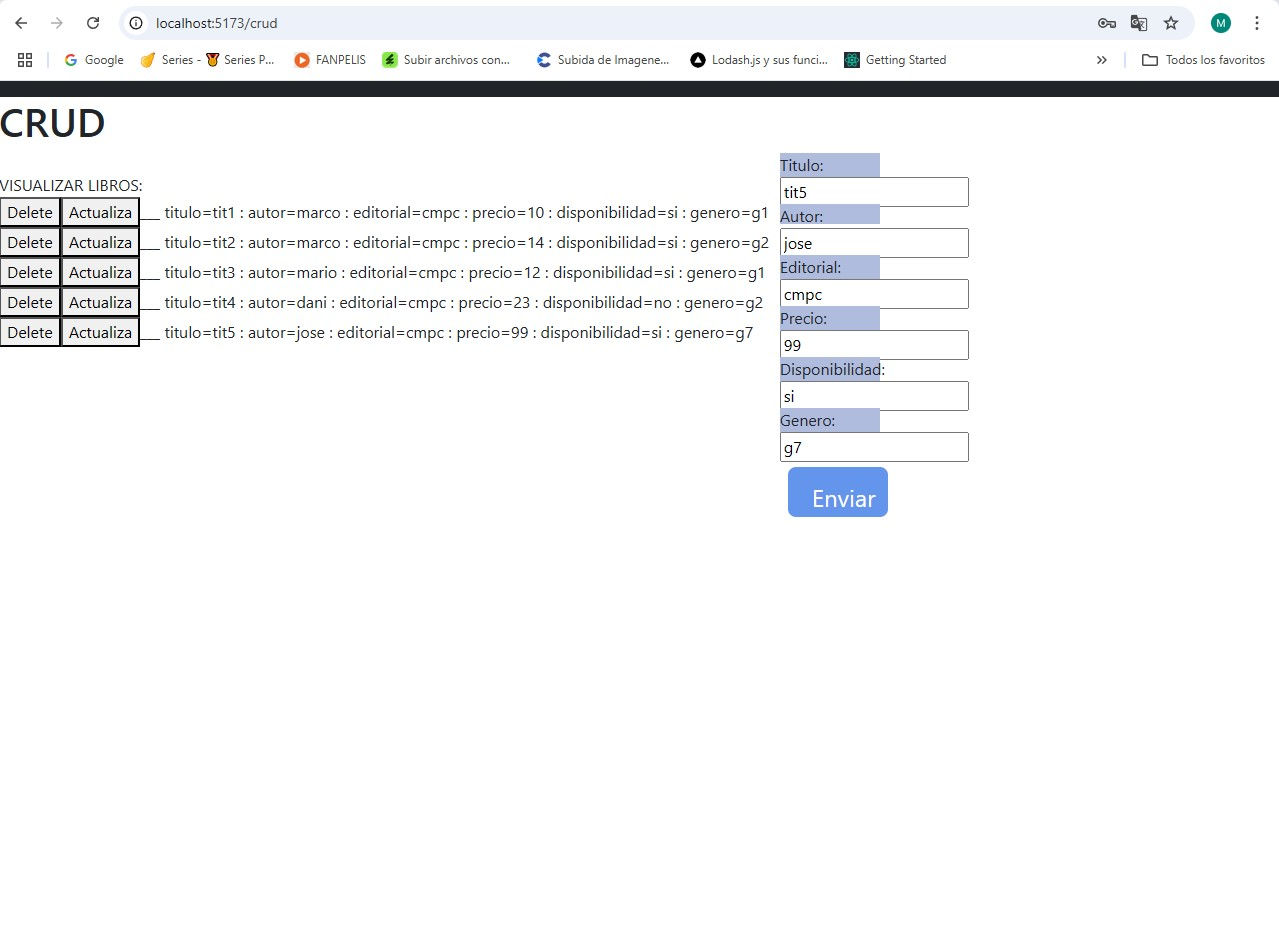
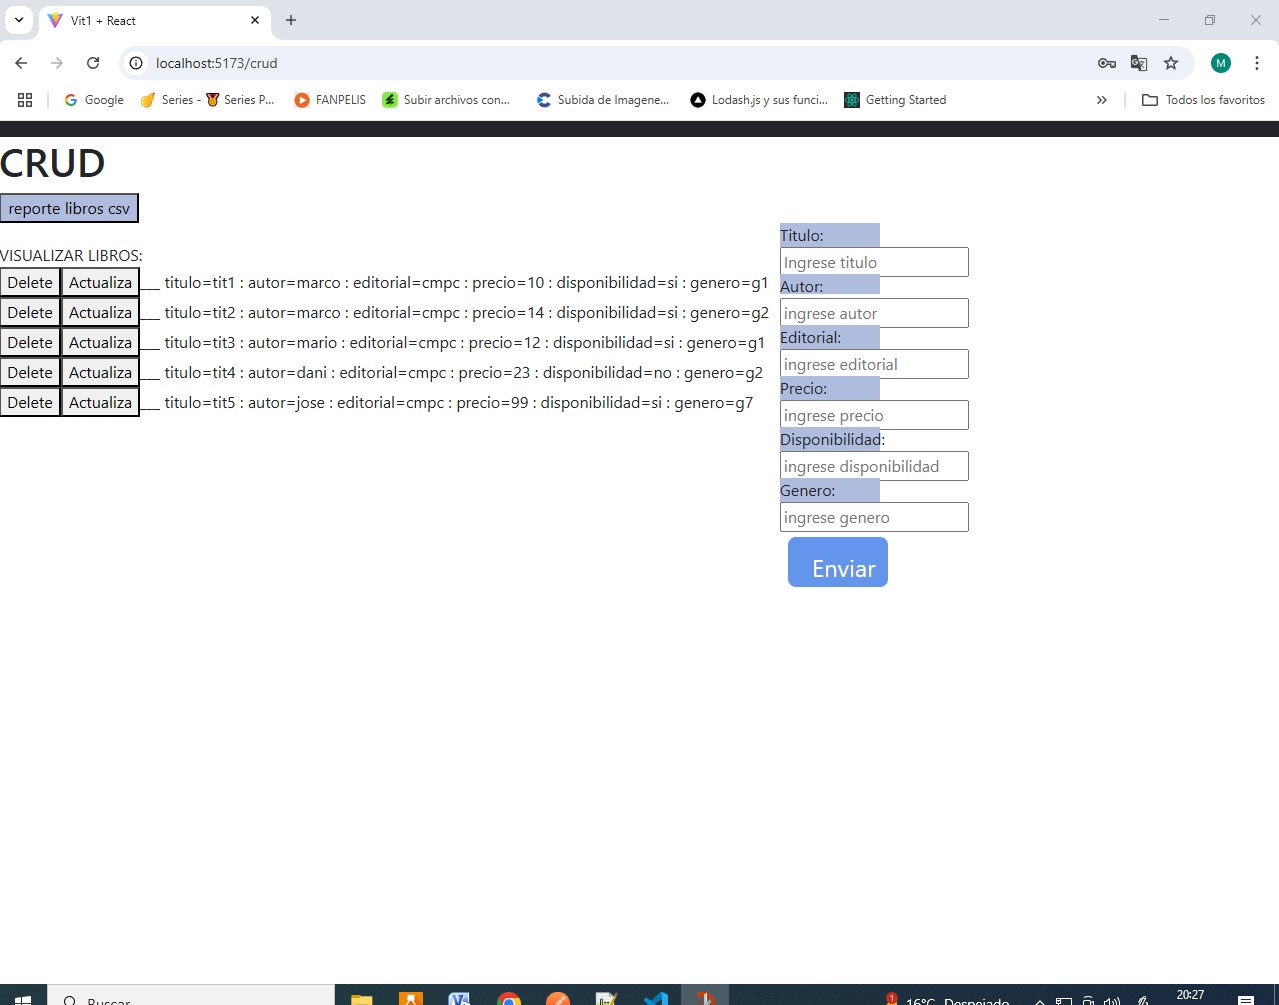
feat: se agrega reportes csc

Changed region(s): [[0.0, 0.0, 1.0, 0.5837], [0.2439, 0.9523, 1.0, 1.0], [0.0, 0.9523, 0.0915, 1.0]]

diff --git a/frontend/src/componentes/Contexto.jsx b/frontend/src/componentes/Contexto.jsx
@@ -19,6 +19,8 @@ export function Contexto(props) {
     const URL2= import.meta.env.VITE_URL || "http://localhost:3000/books"
     const URL3= import.meta.env.VITE_URL || "http://localhost:3000/books"
     const URL4= import.meta.env.VITE_URL || "http://localhost:3000/books"
+    const URL5= import.meta.env.VITE_URL || "http://localhost:3000/books/csv"
+    
     
     async function enviacredencialesAWS(usuario, clave){                  
       let salida
@@ -68,6 +70,20 @@ export function Contexto(props) {
       .catch(error => console.error(error));
       return salida
    }
+
+  const reporteLibros = async()=>{
+    let salida=[]
+    await fetch(`${URL5}`, {
+      method: 'GET',
+      headers: {
+       'Content-Type':'application/json',
+     },
+    })
+    .then(response => response.json())
+    .then(data => salida=data)
+    .catch(error => console.error(error));
+    return salida
+ }
 
 
    const eliminaLibros = async(id)=>{
@@ -130,22 +146,6 @@ export function Contexto(props) {
   }
 
 
-    function baja(a) {
-      setConta(conta - a)
-    }
-
-    function borrar(b) {
-      baja(b)
-      let otro = []
-      carrito.map((g)=>{
-        if(g.a!=b){ 
-          otro.push(g)
-        } 
-      })
-      setCarrito(otro)
-    }
-
-
     const handleChange = (event) => {
         event.preventDefault()
         const { name, value } = event.target;
@@ -178,7 +178,7 @@ export function Contexto(props) {
   return (
     
 
-    <NombreContexto.Provider value={{ editorial, setEditorial,precio, setPrecio,disponibilidad, setDisponibilidad,genero, setGenero,imagenUrl, setImagenUrl,agregaLibro, eliminaLibros,actualizaLibro, buscarLibros,validaToken, enviacredencialesAWS, borrar, handleChange, user, pass,autor,titulo,isLoggedIn, setIsLoggedIn,setUser,setPass,setTitulo,setAutor}} >
+    <NombreContexto.Provider value={{ reporteLibros ,editorial, setEditorial,precio, setPrecio,disponibilidad, setDisponibilidad,genero, setGenero,imagenUrl, setImagenUrl,agregaLibro, eliminaLibros,actualizaLibro, buscarLibros,validaToken, enviacredencialesAWS, handleChange, user, pass,autor,titulo,isLoggedIn, setIsLoggedIn,setUser,setPass,setTitulo,setAutor}} >
         {props.children}
     </NombreContexto.Provider>
   )

diff --git a/backend/src/infrastructure/user/user.service.ts b/backend/src/infrastructure/user/user.service.ts
@@ -1,11 +1,9 @@
 import * as bcrypt from "bcrypt";
-
 import { Injectable } from "@nestjs/common";
 import { InjectRepository } from "@nestjs/typeorm";
 import { Repository, UpdateResult, DeleteResult } from "typeorm";
-import { ConfigService, InjectConfig } from "nestjs-config";
-
 import { UserEntity as User, UserEntity } from "./../entities";
+
 
 @Injectable()
 export class UserService {
@@ -13,19 +11,53 @@ export class UserService {
 
   constructor(
     @InjectRepository(User) private readonly userRepository: Repository<User>,
-  ) { 
-  }
+  ) { }
 
+  
   async findAll(): Promise<User[]> {
     return await this.userRepository.find();
   }
 
+  async findAllandGenerateCsv(): Promise<User[]> {
+      const users=await this.userRepository.find();
+
+      const createCsvWriter = require('csv-writer').createArrayCsvWriter;
+      const csvWriter = createCsvWriter({
+          header:[
+            "id",
+            "created",
+            "updated",
+            "titulo",
+            "autor",
+            "editorial",
+            "precio",
+            "disponibilidad",
+            "genero",
+            "imagenUrl"            
+            ],
+          path: 'path/to/reporte_cmpc.csv'
+      });
+      
+      let informe=[]
+      const data=users.map((esto)=>{
+        var result = Object.keys(esto).map((key) => esto[key]);
+        informe.push(result)
+      })
+    
+      csvWriter.writeRecords(informe)  
+          .then(() => {
+              console.log('...Listo');
+          });
+    
+    return users
+  }
+
+  
   async getHash(password: string): Promise<string> {
     return await bcrypt.hash(password, this.saltRounds);
   }
 
   async createUser(user:User): Promise<User> {
-    console.log('llegaBase',user)
     const userToCreate = {
       ...user,
       id:user.id,
@@ -46,12 +78,10 @@ export class UserService {
 
 
   async deleteUser(id: number): Promise<void> {
-    console.log('delete',id)
     await this.userRepository.delete(id);
   }
 
   async updateUser(id:number,user:User): Promise<UpdateResult> {
-    console.log('llegaBase Update',user)
     const userToUpdate = {
       id:user.id,
       titulo: user.titulo,

diff --git a/frontend/src/componentes/Buscar.jsx b/frontend/src/componentes/Buscar.jsx
@@ -4,7 +4,7 @@ import { useContext,useEffect,useState} from 'react'
 
 const Buscar = () => {
   const [words, setWords] = useState([])
-  const {editorial, precio, disponibilidad,genero,titulo,autor,handleChange,buscarLibros,agregaLibro, eliminaLibros,actualizaLibro} = useContext(NombreContexto)
+  const {editorial, precio, disponibilidad,genero,titulo,autor,handleChange,buscarLibros,agregaLibro, reporteLibros,eliminaLibros,actualizaLibro} = useContext(NombreContexto)
   let libros=[]
 
   useEffect(() => {
@@ -17,6 +17,10 @@ const Buscar = () => {
   const elimina=async(id)=>{
     libros = await eliminaLibros(id); 
     actualiza()
+  }
+
+  const reporte=async()=>{
+    libros = await reporteLibros(); 
   }
 
   const actualizaData=async(id)=>{
@@ -43,11 +47,13 @@ const Buscar = () => {
 
 return (
     <div>
+            <button className='Csv' onClick={()=>{ reporte() }}>
+                reporte libros csv
+           </button>
       
        <div >
             <div  className={'AgregaDatos'}>
-              
-
+            
 
             <form onSubmit={handleSubmit}>
 
@@ -109,8 +115,6 @@ return (
                     />
                 </label>
 
-
-
                 <input className='AgregaLibro' type='submit' ></input>
               </form >
 
@@ -137,8 +141,8 @@ return (
         </div>        
 
 
-      ))}      
 
+      ))}      
     </div>
    )
 

diff --git a/backend/src/infrastructure/user/user.controller.ts b/backend/src/infrastructure/user/user.controller.ts
@@ -1,17 +1,12 @@
 import { Controller, Delete } from "@nestjs/common";
 import { UserService } from "./user.service";
-import { /*UserBookEntity*/UserEntity } from "../entities";
+import { UserEntity } from "../entities";
 import {
   Post,
   Body,
   Patch,
-  ValidationPipe,
-  UnprocessableEntityException,
-  Put,
   Get,
   Param,
-  NotFoundException,
-  UseGuards,
   Request,
 } from "@nestjs/common";
 import { Repository, UpdateResult, DeleteResult } from "typeorm";
@@ -20,6 +15,13 @@ import { Repository, UpdateResult, DeleteResult } from "typeorm";
 @Controller("books")
 export class UserController {
   constructor(private readonly userService: UserService) {}
+
+  generateCsv
+  @Get("csv")
+  async generateAllCsv(): Promise<UserEntity[]> {
+    return await this.userService.findAllandGenerateCsv();
+  }
+
   @Get()
   async getAllUsers(): Promise<UserEntity[]> {
     return await this.userService.findAll();

diff --git a/backend/src/books/infrastructure/controllers/books.controller.ts b/backend/src/books/infrastructure/controllers/books.controller.ts
@@ -28,8 +28,8 @@ export class BooksController {
     schema: {
       type: 'object',
       properties: {
-        user: { // the `user` word comes from @Body('user')
-          properties: { // these properties are coming from `UserDto`
+        user: { 
+          properties: { 
             id: { type: 'number' },
             username: { type: 'string' },
             email: { type: 'string' },
@@ -47,6 +47,7 @@ export class BooksController {
 
   @Get()
   async findAll(): Promise<Book[]> {
+
     return this.findAllBooksService.execute();
   }
 

diff --git a/backend/src/infrastructure/auth/guards/jwt.guard.ts b/backend/src/infrastructure/auth/guards/jwt.guard.ts
@@ -7,9 +7,7 @@ export class JwtAuthGuard extends AuthGuard('jwt') {
   canActivate(    
     context: ExecutionContext,
   ): boolean | Promise<boolean> | Observable<boolean> {
-    let mm=super.canActivate(context);
-    console.log('wwwwwAdentro JWT AuthGuard canActivate',mm);
-
-    return mm
+    let carabinero=super.canActivate(context);
+    return carabinero
   }
 }

diff --git a/backend/src/infrastructure/auth/strategies/jwt.strategy.ts b/backend/src/infrastructure/auth/strategies/jwt.strategy.ts
@@ -13,7 +13,7 @@ export class JwtStrategy extends PassportStrategy(Strategy) {
   }
 
   validate(payload: any) {
-    console.log('IIIInside JWT Strategy Validate');
+    console.log('Adentr de JWT Strategy Validar');
     console.log(payload);
     return payload;
   }

diff --git a/frontend/src/App.css b/frontend/src/App.css
@@ -120,6 +120,19 @@
 
 }
 
+
+.Csv {
+  background: rgb(176, 188, 222);
+  height: 30px;
+  width: 140px;
+  position: relative;
+  top: 0 ;
+  left: 0 ;
+
+  bottom:5% ;
+  right: 10%;
+
+}
 .AgregaImagenUrl {
   background: rgb(176, 188, 222);
   height: 50px;

diff --git a/backend/src/infrastructure/user/index.ts b/backend/src/infrastructure/user/index.ts
@@ -1,3 +1,2 @@
-//export * from './user.module';
 export * from '../entities/user.entity';
 export * from './user.service';

diff --git a/backend/README.md b/backend/README.md
@@ -4,6 +4,17 @@ https://github.com/MarcoMunozOvalle2019/cmpc/tree/main/frontend
 Proyecto: Realizado con tecnologias NestJs(backend) , React-hook(frontend), postgress
 Caracteristicas: Realizado con autenticacion jwt, arq.hexagonal basica( inversion de dependencias).
 
+repositorio cmpc:
+https://github.com/MarcoMunozOvalle2019/cmpc/blob/main/README.md
+
+SWAGGER:
+http://localhost:3000/api-docs
+
+LIB EXTERNA CSV:
+https://www.npmjs.com/package/csv-writer
+
+REPOSITORIO DOCUMENTACION: se recomienda. jeje
+
 1 download repositorios
 
 2 levantar base datos postgres
@@ -24,6 +35,6 @@ Caracteristicas: Realizado con autenticacion jwt, arq.hexagonal basica( inversio
 
 9 ... se entiende que faltan temas por terminar y mejorar
 
-comentarios: a futuro crear csv con MULTER , usuarios en postgres
+comentarios: a futuro crear csv con MULTER , usuarios en postgres, etc 
 
  ...muchas gracias

diff --git a/frontend/README.md b/frontend/README.md
@@ -4,6 +4,17 @@ https://github.com/MarcoMunozOvalle2019/cmpc/tree/main/frontend
 Proyecto: Realizado con tecnologias NestJs(backend) , React-hook(frontend), postgress
 Caracteristicas: Realizado con autenticacion jwt, arq.hexagonal basica( inversion de dependencias).
 
+repositorio cmpc:
+https://github.com/MarcoMunozOvalle2019/cmpc/blob/main/README.md
+
+SWAGGER:
+http://localhost:3000/api-docs
+
+LIB EXTERNA CSV:
+https://www.npmjs.com/package/csv-writer
+
+REPOSITORIO DOCUMENTACION: se recomienda. jeje
+
 1 download repositorios
 
 2 levantar base datos postgres
@@ -24,6 +35,6 @@ Caracteristicas: Realizado con autenticacion jwt, arq.hexagonal basica( inversio
 
 9 ... se entiende que faltan temas por terminar y mejorar
 
-comentarios: a futuro crear csv con MULTER , usuarios en postgres
+comentarios: a futuro crear csv con MULTER , usuarios en postgres, etc 
 
  ...muchas gracias

diff --git a/README.md b/README.md
@@ -1,8 +1,19 @@
-# cmpc
+# cmpc# cmpc
 https://github.com/MarcoMunozOvalle2019/cmpc/tree/main/frontend
 
 Proyecto: Realizado con tecnologias NestJs(backend) , React-hook(frontend), postgress
 Caracteristicas: Realizado con autenticacion jwt, arq.hexagonal basica( inversion de dependencias).
+
+repositorio cmpc:
+https://github.com/MarcoMunozOvalle2019/cmpc/blob/main/README.md
+
+SWAGGER:
+http://localhost:3000/api-docs
+
+LIB EXTERNA CSV:
+https://www.npmjs.com/package/csv-writer
+
+REPOSITORIO DOCUMENTACION: se recomienda. jeje
 
 1 download repositorios
 
@@ -24,6 +35,6 @@ Caracteristicas: Realizado con autenticacion jwt, arq.hexagonal basica( inversio
 
 9 ... se entiende que faltan temas por terminar y mejorar
 
-comentarios: a futuro crear csv con Multer, usuarios en postgres
+comentarios: a futuro crear csv con MULTER , usuarios en postgres, etc 
 
  ...muchas gracias
